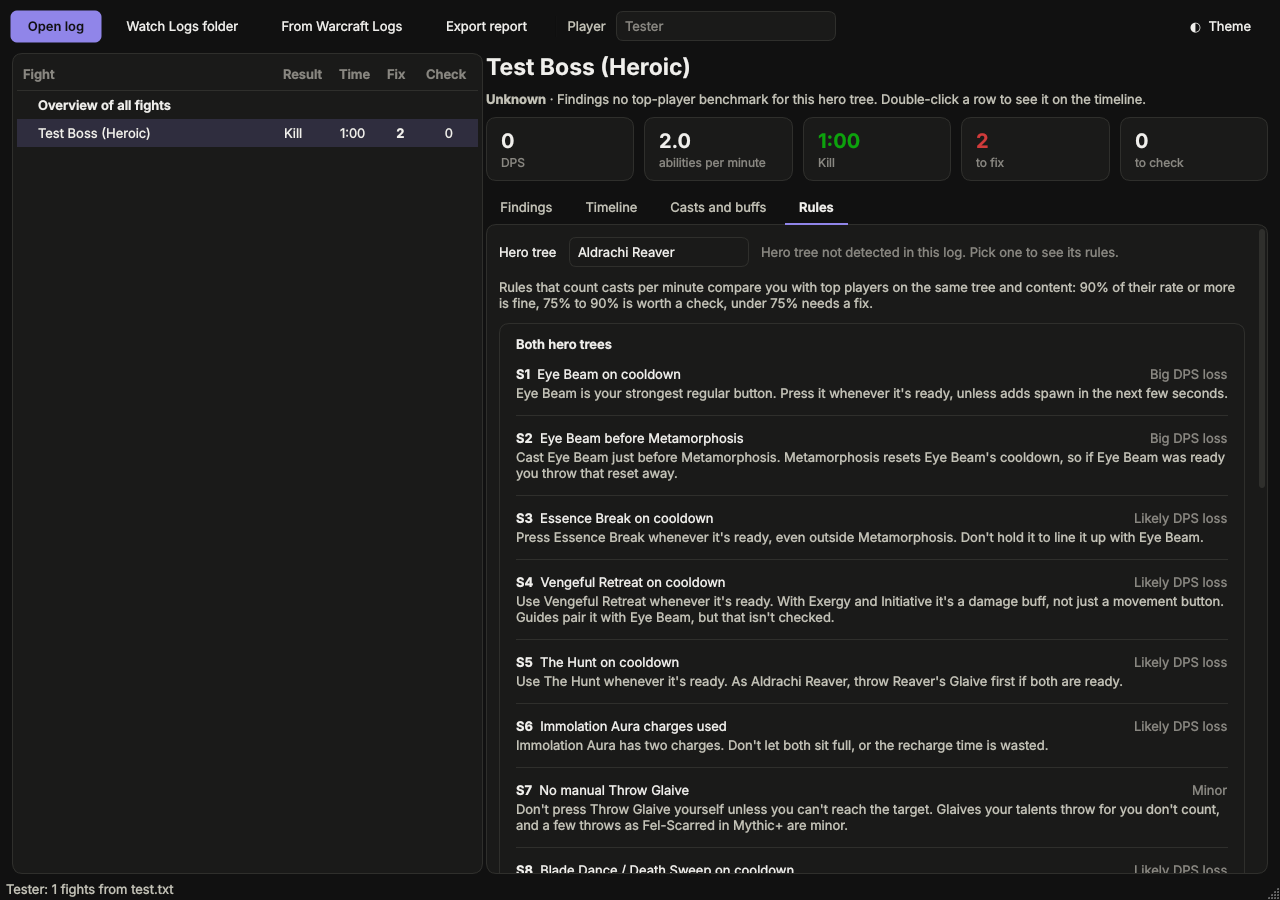
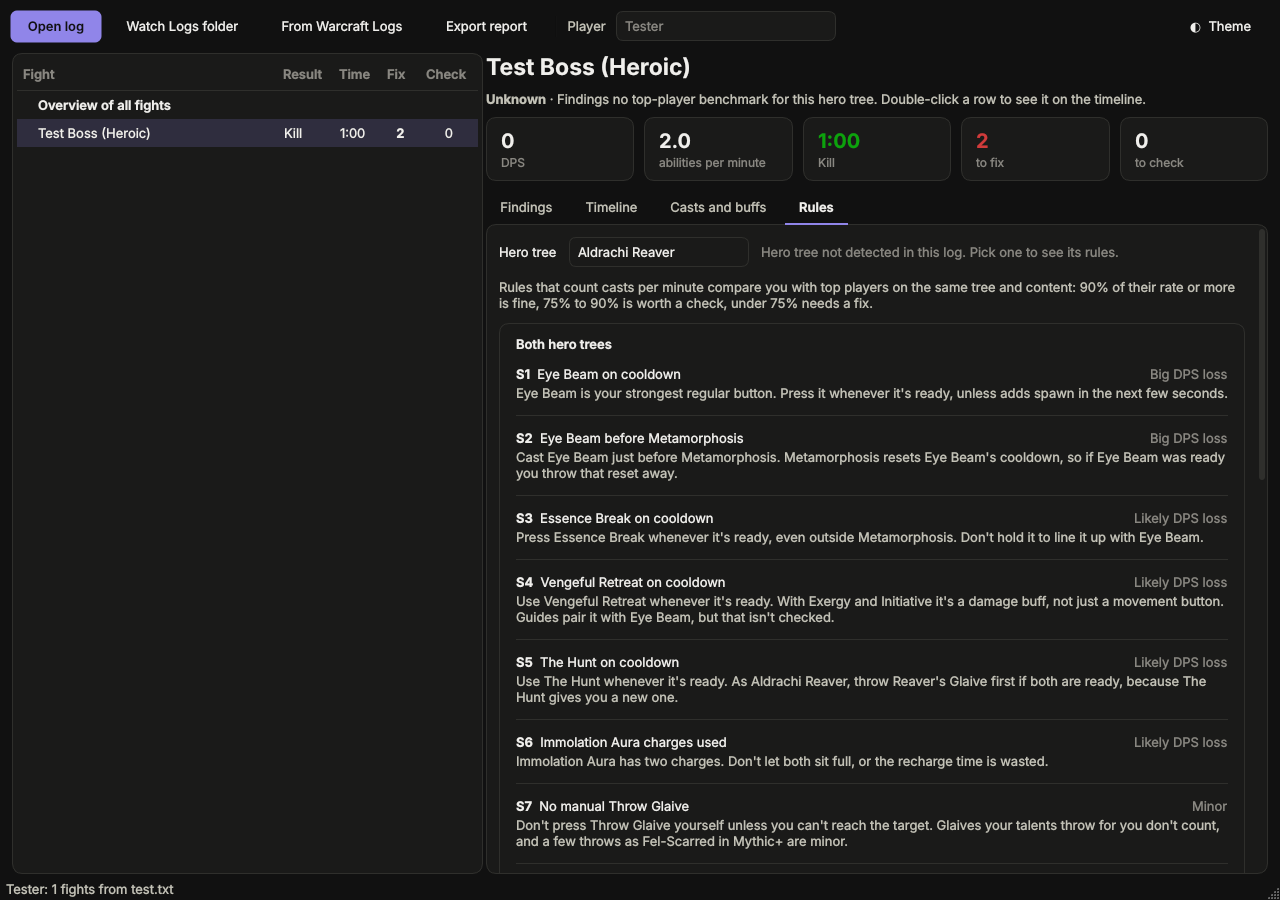
Match rule explanations to the Aldrachi Reaver guide update
S5, AR1, AR3 and AR4 follow the wording in the refreshed ruleset.

Changed region(s): [[0.4062, 0.7467, 0.9688, 0.9956], [0.875, 0.7467, 0.9688, 0.84]]

diff --git a/havoc_analyzer/rules.py b/havoc_analyzer/rules.py
@@ -242,7 +242,8 @@ RULES = [
          "Use Vengeful Retreat whenever it's ready. With Exergy and Initiative it's a damage buff, not just "
          "a movement button. Guides pair it with Eye Beam, but that isn't checked."),
     Rule("S5", "The Hunt on cooldown", "Med", BOTH, _rate_check(["The Hunt"], "The Hunt"),
-         "Use The Hunt whenever it's ready. As Aldrachi Reaver, throw Reaver's Glaive first if both are ready."),
+         "Use The Hunt whenever it's ready. As Aldrachi Reaver, throw Reaver's Glaive first if both are ready, "
+         "because The Hunt gives you a new one."),
     Rule("S6", "Immolation Aura charges used", "Med", BOTH, _rate_check(["Immolation Aura"], "Immolation Aura"),
          "Immolation Aura has two charges. Don't let both sit full, or the recharge time is wasted."),
     Rule("S7", "No manual Throw Glaive", "Low", BOTH, _manual_throws,
@@ -268,13 +269,14 @@ RULES = [
          f"Drink your damage potion in the opener or with Metamorphosis (up to {PREPOT_S:.0f} s before it "
          "is fine), so it boosts your biggest damage."),
     Rule("AR1", "Reaver's Glaive on time", "High", AR, _rate_check(["Reaver's Glaive"], "Reaver's Glaive"),
-         "Throw Reaver's Glaive as soon as it's available, at the main target."),
+         "Throw Reaver's Glaive as soon as it's available, at the main target. The exception is holding it a "
+         "few seconds for an add wave you want to cleave."),
     Rule("AR2", "Both empowered spenders after each Glaive", "High", AR, _thrill_per_glaive,
          "After each Reaver's Glaive, use both empowered attacks (Rending Strike and Glaive Flurry) before "
          "the next Glaive. Doing both gives you Thrill of the Fight."),
     Rule("AR4", "Thrill of the Fight uptime", "Med", AR, _thrill_uptime,
-         "Keep the Thrill of the Fight buff up as much as you can. Top players have it about 78% of a raid "
-         "fight and 70% of a key."),
+         "Thrill of the Fight is a 30 s window you get from doing both empowered attacks. Don't watch it while "
+         "playing: if AR2 is clean, this follows. Top players have it about 78% of a raid fight and 70% of a key."),
     Rule("AR5", "Opener", "Low", AR, _opener,
          "Start the pull with Method's Aldrachi Reaver opener: The Hunt, Reaver's Glaive, Eye Beam, "
          "Essence Break, spenders, then Metamorphosis. Checked on raid bosses only."),
@@ -294,9 +296,9 @@ NOT_CHECKED = [
          "Keep spending Fury while Metamorphosis is up. Spending extends it (Shattered Destiny)."),
     Rule("S12", "Fel Rush only as filler", "Low", BOTH, None,
          "Use Fel Rush only when nothing else is ready or to get back to the target."),
-    Rule("AR3", "Right spender for the Glaive buffs (M+)", "Med", AR, None,
-         "In Mythic+, use Blade Dance when only Glaive Flurry is up, and Chaos Strike or Annihilation "
-         "when both buffs are up."),
+    Rule("AR3", "Right spender order after a Glaive", "Med", AR, None,
+         "On one target, alternate Blade Dance and Chaos Strike to build Reaver's Mark to 3 stacks, and use "
+         "Chaos Strike first once you have 2 or more. With 2 or more targets, always Chaos Strike first."),
     Rule("FS1", "Immolation Aura before Metamorphosis", "Med", FS, None,
          "Spend your Immolation Aura charges before you press Metamorphosis."),
 ]
